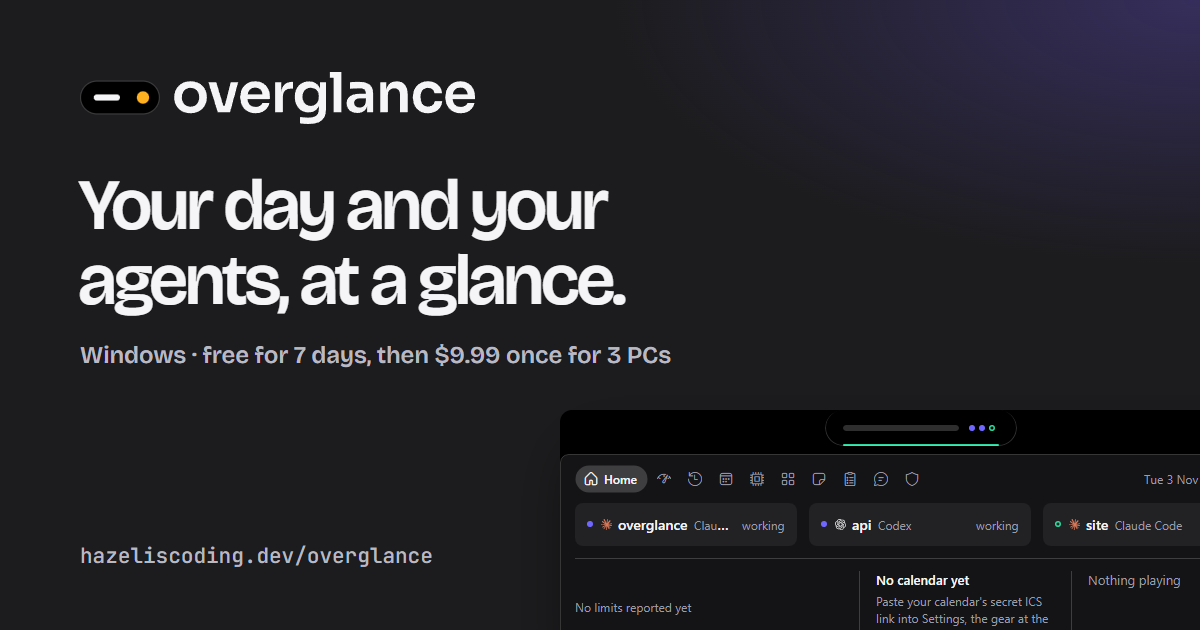
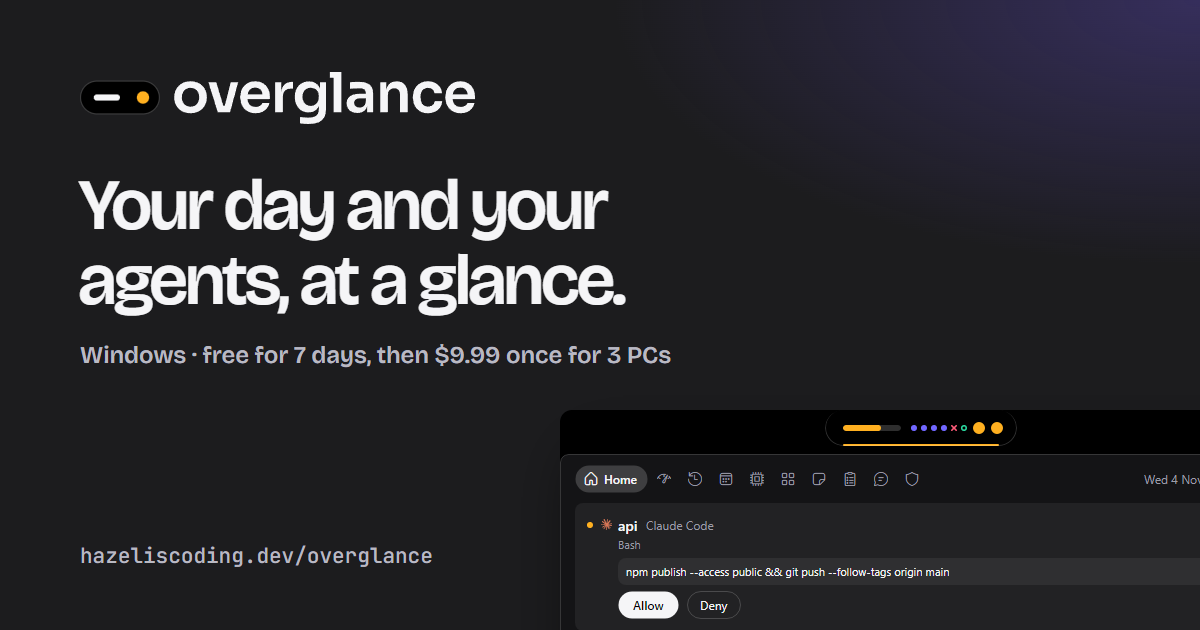
feat(overglance): show the panel busy in the mockups
The hero, the day, music and limits sections, the themes row and the
social card now show the test suite's busy render instead of empty
states: a Claude Code session waiting on an npm publish command with
Allow and Deny, both plans' limits with a pace forecast, a Design review
meeting with Join, a song, and the closed pill's gauge with six agents'
dots. Captions and alt text say what is in the picture.

diff --git a/src/app/data/overglance.data.ts b/src/app/data/overglance.data.ts
@@ -28,9 +28,9 @@ export interface OverglanceSection {
 /** The open panel on its Home tab: the hero's mockup, and the still the launch video replaces. */
 export const OVERGLANCE_MOCKUP: OverglanceShot = {
   src: 'overglance/midnight-home.webp',
-  alt: 'The Overglance panel open on its Home tab: three agent rows, two working and one done, beside the limits, calendar and music columns',
+  alt: 'The Overglance panel open on its Home tab: a Claude Code session waiting on an npm publish command with Allow and Deny buttons and "7 more" below it, Claude Code and Codex limits with a pace forecast, a Design review meeting with a Join button, and a song playing',
   width: 722,
-  height: 262,
+  height: 418,
 };
 
 export const OVERGLANCE_SECTIONS: OverglanceSection[] = [
@@ -51,7 +51,7 @@ export const OVERGLANCE_SECTIONS: OverglanceSection[] = [
     body: "Claude's 5-hour and weekly limits and Codex's, each with its reset countdown, a pace forecast and how old the number is. The closed pill carries the fullest limit as a gauge and a dot per session, so you see a limit coming without opening anything.",
     image: {
       src: 'overglance/midnight-closed.webp',
-      alt: 'The closed pill: a gauge for the fullest limit and three session dots',
+      alt: 'The closed pill: an amber gauge for the fullest limit and six agents’ dots, two of them amber for waiting',
       width: 240,
       height: 56,
     },
@@ -62,9 +62,9 @@ export const OVERGLANCE_SECTIONS: OverglanceSection[] = [
     body: "The next meeting with a countdown and a Join button, today's list and the month, from calendar links you paste: Microsoft 365, Outlook.com or Google. Five minutes before a meeting, the pill grows.",
     image: {
       src: 'overglance/porcelain-home.webp',
-      alt: 'The Porcelain theme: the Home tab with its calendar column waiting for a link',
+      alt: 'The Porcelain theme: the Home tab with a Design review meeting happening now, 11:24 to 12:24, and its Join button',
       width: 722,
-      height: 262,
+      height: 418,
     },
   },
   {
@@ -73,9 +73,9 @@ export const OVERGLANCE_SECTIONS: OverglanceSection[] = [
     body: "What's playing in any app that shows in Windows' media controls, with its album art. Play, pause or skip from the panel instead of switching to the music app.",
     image: {
       src: 'overglance/graphite-home.webp',
-      alt: 'The Graphite theme: the Home tab with its music column at the right',
+      alt: 'The Graphite theme: the Home tab with "The Long Way Round" by Northbound Lights playing, its album art, and previous, pause and next buttons',
       width: 722,
-      height: 262,
+      height: 418,
     },
   },
   {

diff --git a/src/app/features/overglance/overglance-page/overglance-page.html b/src/app/features/overglance/overglance-page/overglance-page.html
@@ -47,7 +47,10 @@
       } @else {
         <img class="hero__shot" [src]="mockup.src" [alt]="mockup.alt" [width]="mockup.width" [height]="mockup.height" />
       }
-      <figcaption class="hero__caption">The panel open on its Home tab, in the Midnight theme.</figcaption>
+      <figcaption class="hero__caption">
+        The Home tab in the Midnight theme: an agent waiting for an answer, both plans' limits, the next meeting
+        and what's playing.
+      </figcaption>
     </figure>
   </header>
 
